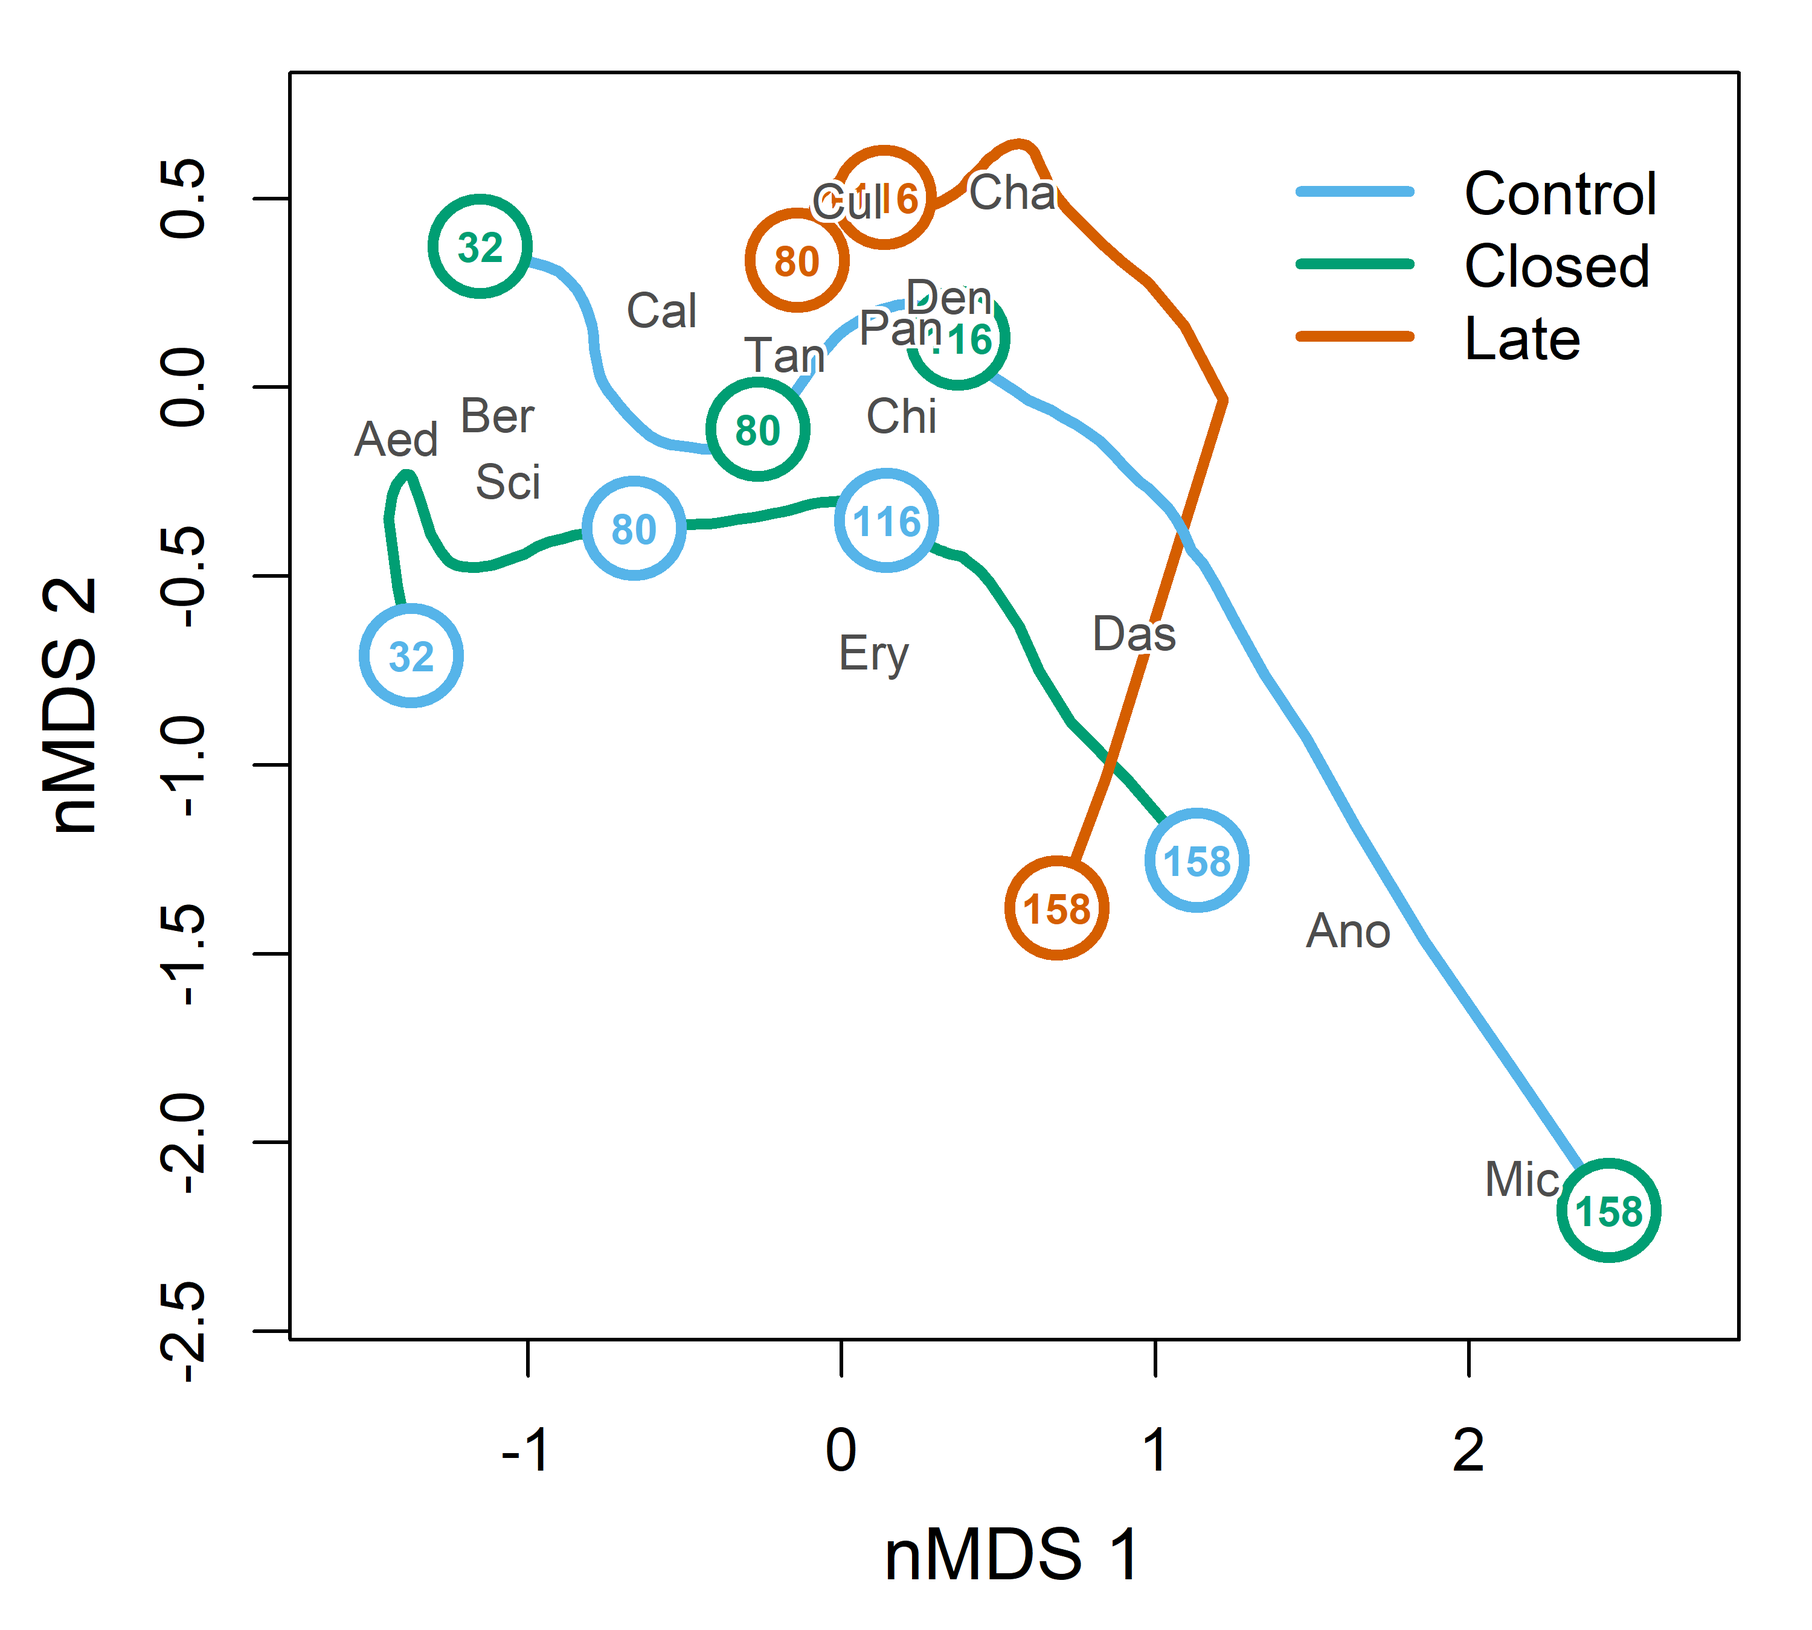
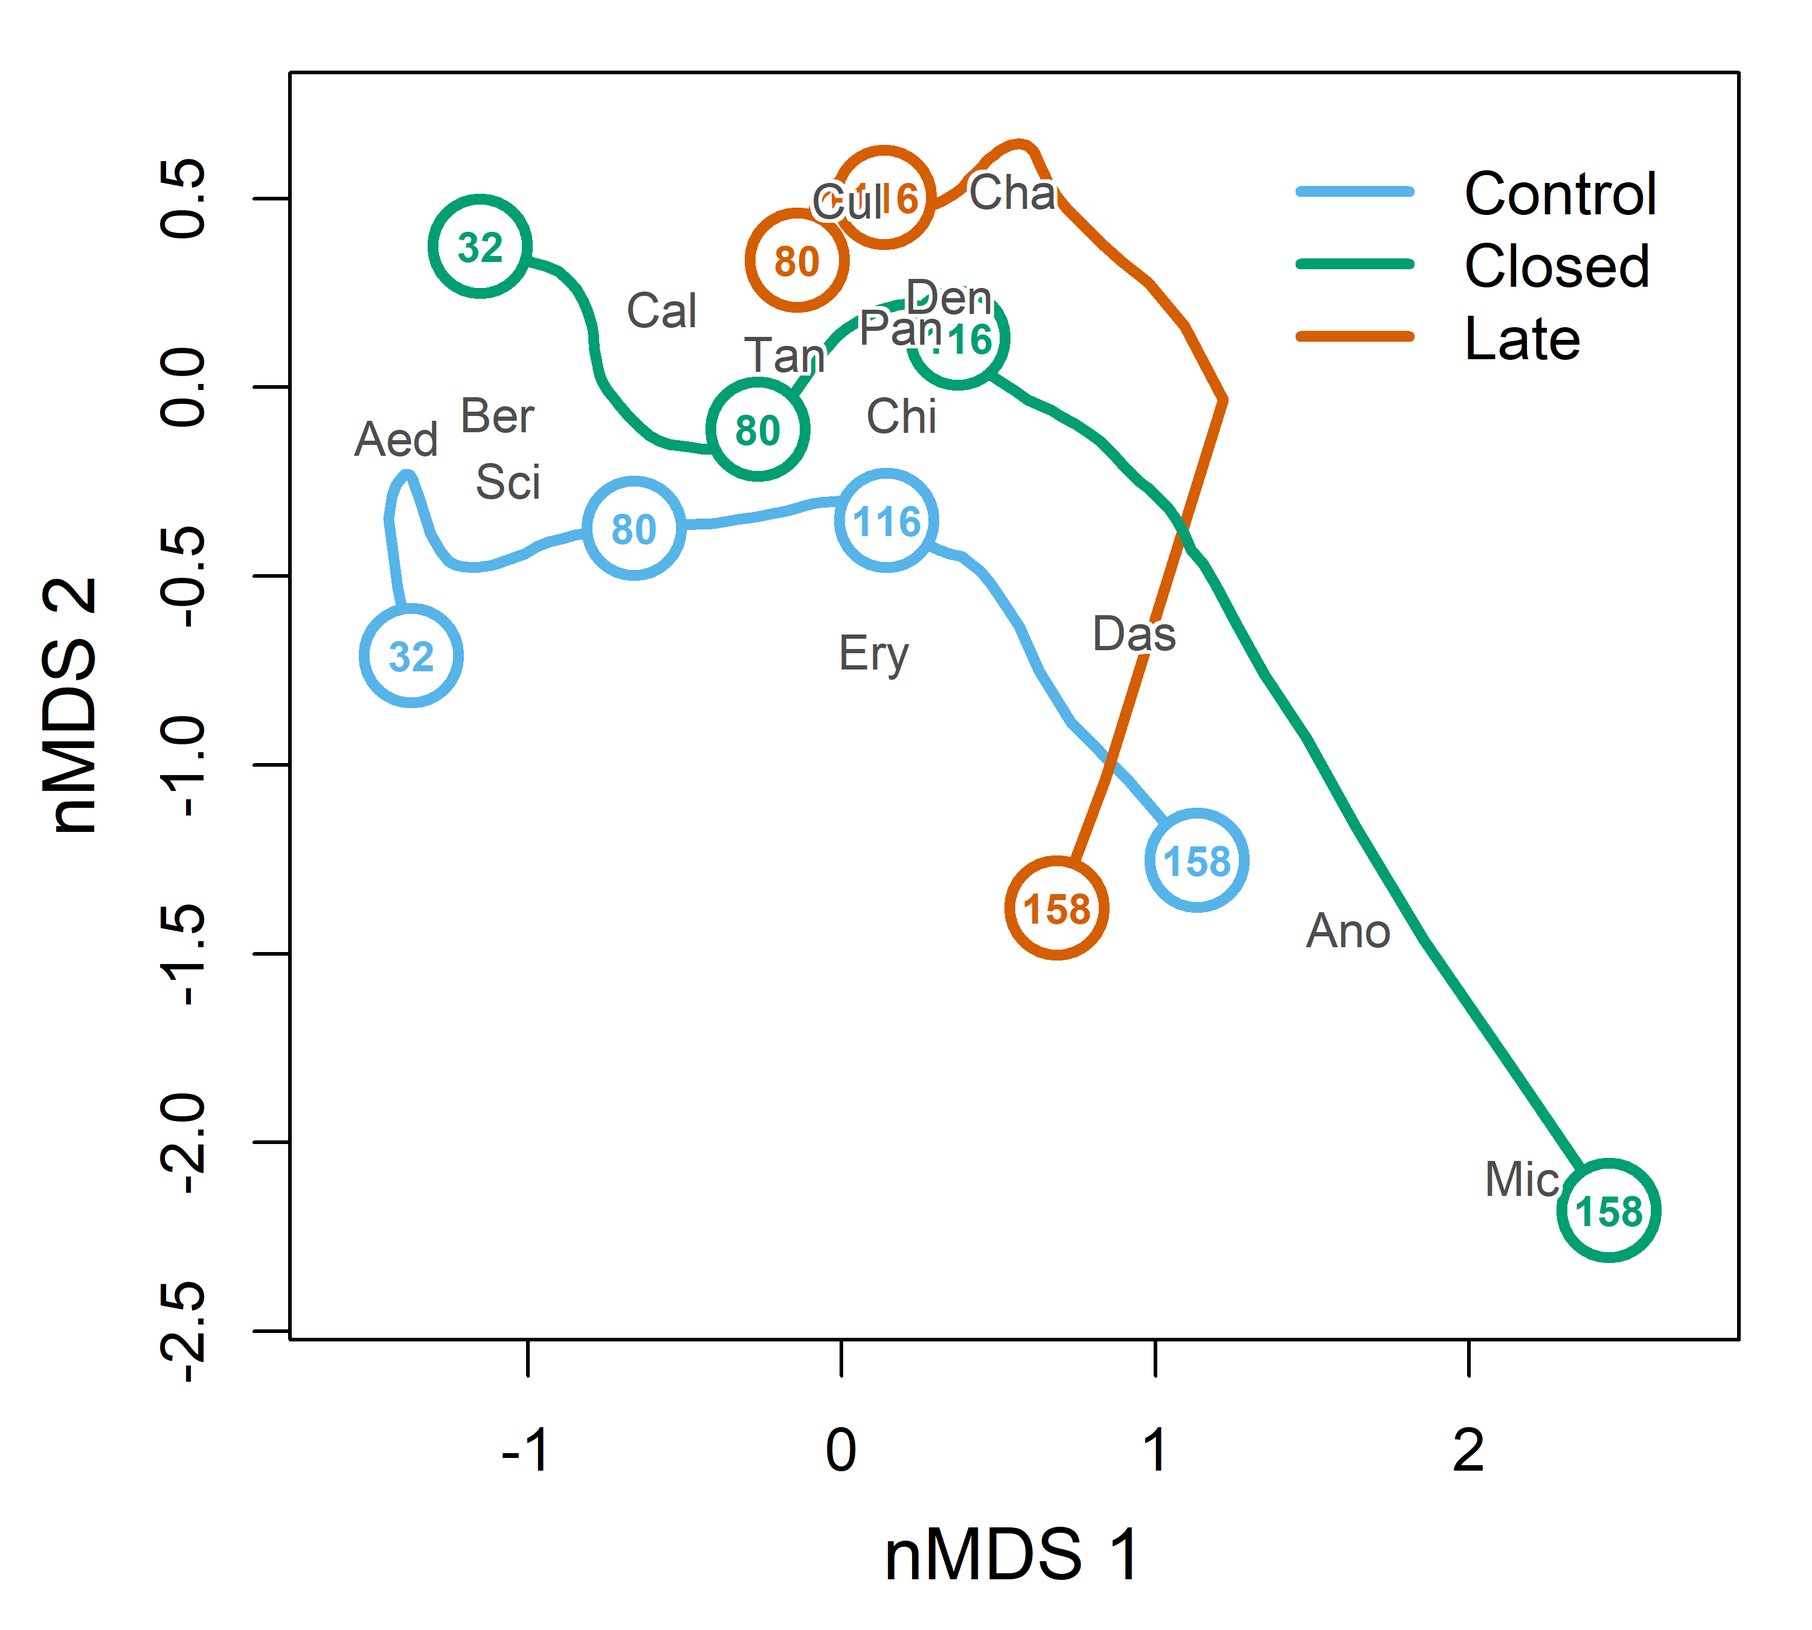
Updating figures of late treatment analysis

diff --git a/Markdowns/late_treatment.md b/Markdowns/late_treatment.md
@@ -98,16 +98,16 @@ anova_late_quadratic_test <- anova(mod_late_lin, mod_late_quad, bootID = permuta
     ## Using <int> bootID matrix from input. 
     ## Resampling begins for test 1.
     ##  Resampling run 0 finished. Time elapsed: 0.00 minutes...
-    ##  Resampling run 100 finished. Time elapsed: 0.03 minutes...
-    ##  Resampling run 200 finished. Time elapsed: 0.06 minutes...
-    ##  Resampling run 300 finished. Time elapsed: 0.09 minutes...
-    ##  Resampling run 400 finished. Time elapsed: 0.13 minutes...
-    ##  Resampling run 500 finished. Time elapsed: 0.17 minutes...
-    ##  Resampling run 600 finished. Time elapsed: 0.22 minutes...
-    ##  Resampling run 700 finished. Time elapsed: 0.26 minutes...
-    ##  Resampling run 800 finished. Time elapsed: 0.30 minutes...
-    ##  Resampling run 900 finished. Time elapsed: 0.34 minutes...
-    ## Time elapsed: 0 hr 0 min 22 sec
+    ##  Resampling run 100 finished. Time elapsed: 0.02 minutes...
+    ##  Resampling run 200 finished. Time elapsed: 0.04 minutes...
+    ##  Resampling run 300 finished. Time elapsed: 0.07 minutes...
+    ##  Resampling run 400 finished. Time elapsed: 0.09 minutes...
+    ##  Resampling run 500 finished. Time elapsed: 0.11 minutes...
+    ##  Resampling run 600 finished. Time elapsed: 0.13 minutes...
+    ##  Resampling run 700 finished. Time elapsed: 0.15 minutes...
+    ##  Resampling run 800 finished. Time elapsed: 0.17 minutes...
+    ##  Resampling run 900 finished. Time elapsed: 0.20 minutes...
+    ## Time elapsed: 0 hr 0 min 12 sec
 
 ``` r
 anova_late_quadratic_test
@@ -141,16 +141,16 @@ anova_late_block_test <- anova(mod_late_no_block, mod_late_block, bootID = permu
     ## Using <int> bootID matrix from input. 
     ## Resampling begins for test 1.
     ##  Resampling run 0 finished. Time elapsed: 0.00 minutes...
-    ##  Resampling run 100 finished. Time elapsed: 0.03 minutes...
-    ##  Resampling run 200 finished. Time elapsed: 0.07 minutes...
-    ##  Resampling run 300 finished. Time elapsed: 0.10 minutes...
-    ##  Resampling run 400 finished. Time elapsed: 0.13 minutes...
-    ##  Resampling run 500 finished. Time elapsed: 0.16 minutes...
-    ##  Resampling run 600 finished. Time elapsed: 0.19 minutes...
-    ##  Resampling run 700 finished. Time elapsed: 0.22 minutes...
-    ##  Resampling run 800 finished. Time elapsed: 0.26 minutes...
-    ##  Resampling run 900 finished. Time elapsed: 0.29 minutes...
-    ## Time elapsed: 0 hr 0 min 19 sec
+    ##  Resampling run 100 finished. Time elapsed: 0.02 minutes...
+    ##  Resampling run 200 finished. Time elapsed: 0.03 minutes...
+    ##  Resampling run 300 finished. Time elapsed: 0.05 minutes...
+    ##  Resampling run 400 finished. Time elapsed: 0.07 minutes...
+    ##  Resampling run 500 finished. Time elapsed: 0.08 minutes...
+    ##  Resampling run 600 finished. Time elapsed: 0.10 minutes...
+    ##  Resampling run 700 finished. Time elapsed: 0.12 minutes...
+    ##  Resampling run 800 finished. Time elapsed: 0.13 minutes...
+    ##  Resampling run 900 finished. Time elapsed: 0.15 minutes...
+    ## Time elapsed: 0 hr 0 min 10 sec
 
 ``` r
 anova_late_block_test
@@ -189,27 +189,27 @@ anova_late_treatments_test <- anova(mod_late_no_treatment, mod_late_treatment, m
     ## Using <int> bootID matrix from input. 
     ## Resampling begins for test 1.
     ##  Resampling run 0 finished. Time elapsed: 0.00 minutes...
-    ##  Resampling run 100 finished. Time elapsed: 0.04 minutes...
-    ##  Resampling run 200 finished. Time elapsed: 0.09 minutes...
-    ##  Resampling run 300 finished. Time elapsed: 0.14 minutes...
-    ##  Resampling run 400 finished. Time elapsed: 0.18 minutes...
-    ##  Resampling run 500 finished. Time elapsed: 0.22 minutes...
-    ##  Resampling run 600 finished. Time elapsed: 0.27 minutes...
-    ##  Resampling run 700 finished. Time elapsed: 0.31 minutes...
-    ##  Resampling run 800 finished. Time elapsed: 0.36 minutes...
-    ##  Resampling run 900 finished. Time elapsed: 0.40 minutes...
+    ##  Resampling run 100 finished. Time elapsed: 0.02 minutes...
+    ##  Resampling run 200 finished. Time elapsed: 0.05 minutes...
+    ##  Resampling run 300 finished. Time elapsed: 0.07 minutes...
+    ##  Resampling run 400 finished. Time elapsed: 0.09 minutes...
+    ##  Resampling run 500 finished. Time elapsed: 0.12 minutes...
+    ##  Resampling run 600 finished. Time elapsed: 0.14 minutes...
+    ##  Resampling run 700 finished. Time elapsed: 0.16 minutes...
+    ##  Resampling run 800 finished. Time elapsed: 0.19 minutes...
+    ##  Resampling run 900 finished. Time elapsed: 0.21 minutes...
     ## Resampling begins for test 2.
     ##  Resampling run 0 finished. Time elapsed: 0.00 minutes...
-    ##  Resampling run 100 finished. Time elapsed: 0.05 minutes...
-    ##  Resampling run 200 finished. Time elapsed: 0.10 minutes...
-    ##  Resampling run 300 finished. Time elapsed: 0.16 minutes...
-    ##  Resampling run 400 finished. Time elapsed: 0.21 minutes...
-    ##  Resampling run 500 finished. Time elapsed: 0.26 minutes...
-    ##  Resampling run 600 finished. Time elapsed: 0.31 minutes...
-    ##  Resampling run 700 finished. Time elapsed: 0.36 minutes...
-    ##  Resampling run 800 finished. Time elapsed: 0.41 minutes...
-    ##  Resampling run 900 finished. Time elapsed: 0.46 minutes...
-    ## Time elapsed: 0 hr 0 min 57 sec
+    ##  Resampling run 100 finished. Time elapsed: 0.03 minutes...
+    ##  Resampling run 200 finished. Time elapsed: 0.05 minutes...
+    ##  Resampling run 300 finished. Time elapsed: 0.08 minutes...
+    ##  Resampling run 400 finished. Time elapsed: 0.11 minutes...
+    ##  Resampling run 500 finished. Time elapsed: 0.13 minutes...
+    ##  Resampling run 600 finished. Time elapsed: 0.16 minutes...
+    ##  Resampling run 700 finished. Time elapsed: 0.19 minutes...
+    ##  Resampling run 800 finished. Time elapsed: 0.21 minutes...
+    ##  Resampling run 900 finished. Time elapsed: 0.24 minutes...
+    ## Time elapsed: 0 hr 0 min 30 sec
 
 ``` r
 anova_late_treatments_test
@@ -257,27 +257,27 @@ anova_treatments_test_late_control <- anova(mod_no_treatment_late_control, mod_t
     ## Using <int> bootID matrix from input. 
     ## Resampling begins for test 1.
     ##  Resampling run 0 finished. Time elapsed: 0.00 minutes...
-    ##  Resampling run 100 finished. Time elapsed: 0.03 minutes...
-    ##  Resampling run 200 finished. Time elapsed: 0.06 minutes...
-    ##  Resampling run 300 finished. Time elapsed: 0.09 minutes...
-    ##  Resampling run 400 finished. Time elapsed: 0.12 minutes...
-    ##  Resampling run 500 finished. Time elapsed: 0.14 minutes...
-    ##  Resampling run 600 finished. Time elapsed: 0.17 minutes...
-    ##  Resampling run 700 finished. Time elapsed: 0.20 minutes...
-    ##  Resampling run 800 finished. Time elapsed: 0.23 minutes...
-    ##  Resampling run 900 finished. Time elapsed: 0.26 minutes...
+    ##  Resampling run 100 finished. Time elapsed: 0.02 minutes...
+    ##  Resampling run 200 finished. Time elapsed: 0.03 minutes...
+    ##  Resampling run 300 finished. Time elapsed: 0.05 minutes...
+    ##  Resampling run 400 finished. Time elapsed: 0.06 minutes...
+    ##  Resampling run 500 finished. Time elapsed: 0.08 minutes...
+    ##  Resampling run 600 finished. Time elapsed: 0.09 minutes...
+    ##  Resampling run 700 finished. Time elapsed: 0.11 minutes...
+    ##  Resampling run 800 finished. Time elapsed: 0.12 minutes...
+    ##  Resampling run 900 finished. Time elapsed: 0.14 minutes...
     ## Resampling begins for test 2.
     ##  Resampling run 0 finished. Time elapsed: 0.00 minutes...
-    ##  Resampling run 100 finished. Time elapsed: 0.04 minutes...
-    ##  Resampling run 200 finished. Time elapsed: 0.07 minutes...
-    ##  Resampling run 300 finished. Time elapsed: 0.11 minutes...
-    ##  Resampling run 400 finished. Time elapsed: 0.14 minutes...
-    ##  Resampling run 500 finished. Time elapsed: 0.18 minutes...
-    ##  Resampling run 600 finished. Time elapsed: 0.22 minutes...
-    ##  Resampling run 700 finished. Time elapsed: 0.25 minutes...
-    ##  Resampling run 800 finished. Time elapsed: 0.29 minutes...
-    ##  Resampling run 900 finished. Time elapsed: 0.33 minutes...
-    ## Time elapsed: 0 hr 0 min 39 sec
+    ##  Resampling run 100 finished. Time elapsed: 0.02 minutes...
+    ##  Resampling run 200 finished. Time elapsed: 0.04 minutes...
+    ##  Resampling run 300 finished. Time elapsed: 0.06 minutes...
+    ##  Resampling run 400 finished. Time elapsed: 0.09 minutes...
+    ##  Resampling run 500 finished. Time elapsed: 0.12 minutes...
+    ##  Resampling run 600 finished. Time elapsed: 0.14 minutes...
+    ##  Resampling run 700 finished. Time elapsed: 0.17 minutes...
+    ##  Resampling run 800 finished. Time elapsed: 0.20 minutes...
+    ##  Resampling run 900 finished. Time elapsed: 0.22 minutes...
+    ## Time elapsed: 0 hr 0 min 23 sec
 
 ``` r
 anova_treatments_test_late_control
@@ -323,27 +323,27 @@ anova_treatments_test_late_fechado <- anova(mod_no_treatment_late_fechado, mod_t
     ## Using <int> bootID matrix from input. 
     ## Resampling begins for test 1.
     ##  Resampling run 0 finished. Time elapsed: 0.00 minutes...
-    ##  Resampling run 100 finished. Time elapsed: 0.03 minutes...
-    ##  Resampling run 200 finished. Time elapsed: 0.06 minutes...
-    ##  Resampling run 300 finished. Time elapsed: 0.09 minutes...
-    ##  Resampling run 400 finished. Time elapsed: 0.12 minutes...
-    ##  Resampling run 500 finished. Time elapsed: 0.15 minutes...
-    ##  Resampling run 600 finished. Time elapsed: 0.18 minutes...
-    ##  Resampling run 700 finished. Time elapsed: 0.21 minutes...
-    ##  Resampling run 800 finished. Time elapsed: 0.24 minutes...
-    ##  Resampling run 900 finished. Time elapsed: 0.27 minutes...
+    ##  Resampling run 100 finished. Time elapsed: 0.02 minutes...
+    ##  Resampling run 200 finished. Time elapsed: 0.04 minutes...
+    ##  Resampling run 300 finished. Time elapsed: 0.06 minutes...
+    ##  Resampling run 400 finished. Time elapsed: 0.07 minutes...
+    ##  Resampling run 500 finished. Time elapsed: 0.09 minutes...
+    ##  Resampling run 600 finished. Time elapsed: 0.11 minutes...
+    ##  Resampling run 700 finished. Time elapsed: 0.13 minutes...
+    ##  Resampling run 800 finished. Time elapsed: 0.14 minutes...
+    ##  Resampling run 900 finished. Time elapsed: 0.16 minutes...
     ## Resampling begins for test 2.
     ##  Resampling run 0 finished. Time elapsed: 0.00 minutes...
-    ##  Resampling run 100 finished. Time elapsed: 0.03 minutes...
-    ##  Resampling run 200 finished. Time elapsed: 0.06 minutes...
-    ##  Resampling run 300 finished. Time elapsed: 0.10 minutes...
-    ##  Resampling run 400 finished. Time elapsed: 0.13 minutes...
-    ##  Resampling run 500 finished. Time elapsed: 0.16 minutes...
-    ##  Resampling run 600 finished. Time elapsed: 0.20 minutes...
-    ##  Resampling run 700 finished. Time elapsed: 0.23 minutes...
-    ##  Resampling run 800 finished. Time elapsed: 0.26 minutes...
-    ##  Resampling run 900 finished. Time elapsed: 0.30 minutes...
-    ## Time elapsed: 0 hr 0 min 37 sec
+    ##  Resampling run 100 finished. Time elapsed: 0.02 minutes...
+    ##  Resampling run 200 finished. Time elapsed: 0.03 minutes...
+    ##  Resampling run 300 finished. Time elapsed: 0.05 minutes...
+    ##  Resampling run 400 finished. Time elapsed: 0.07 minutes...
+    ##  Resampling run 500 finished. Time elapsed: 0.09 minutes...
+    ##  Resampling run 600 finished. Time elapsed: 0.11 minutes...
+    ##  Resampling run 700 finished. Time elapsed: 0.12 minutes...
+    ##  Resampling run 800 finished. Time elapsed: 0.14 minutes...
+    ##  Resampling run 900 finished. Time elapsed: 0.16 minutes...
+    ## Time elapsed: 0 hr 0 min 21 sec
 
 ``` r
 anova_treatments_test_late_fechado
@@ -433,16 +433,16 @@ anova_late_exp_quadratic_test <- anova(mod_late_lin, mod_late_quad, bootID = per
     ## Using <int> bootID matrix from input. 
     ## Resampling begins for test 1.
     ##  Resampling run 0 finished. Time elapsed: 0.00 minutes...
-    ##  Resampling run 100 finished. Time elapsed: 0.04 minutes...
-    ##  Resampling run 200 finished. Time elapsed: 0.08 minutes...
-    ##  Resampling run 300 finished. Time elapsed: 0.12 minutes...
-    ##  Resampling run 400 finished. Time elapsed: 0.16 minutes...
-    ##  Resampling run 500 finished. Time elapsed: 0.20 minutes...
-    ##  Resampling run 600 finished. Time elapsed: 0.24 minutes...
-    ##  Resampling run 700 finished. Time elapsed: 0.29 minutes...
-    ##  Resampling run 800 finished. Time elapsed: 0.33 minutes...
-    ##  Resampling run 900 finished. Time elapsed: 0.37 minutes...
-    ## Time elapsed: 0 hr 0 min 24 sec
+    ##  Resampling run 100 finished. Time elapsed: 0.02 minutes...
+    ##  Resampling run 200 finished. Time elapsed: 0.04 minutes...
+    ##  Resampling run 300 finished. Time elapsed: 0.07 minutes...
+    ##  Resampling run 400 finished. Time elapsed: 0.09 minutes...
+    ##  Resampling run 500 finished. Time elapsed: 0.11 minutes...
+    ##  Resampling run 600 finished. Time elapsed: 0.13 minutes...
+    ##  Resampling run 700 finished. Time elapsed: 0.15 minutes...
+    ##  Resampling run 800 finished. Time elapsed: 0.17 minutes...
+    ##  Resampling run 900 finished. Time elapsed: 0.20 minutes...
+    ## Time elapsed: 0 hr 0 min 13 sec
 
 ``` r
 anova_late_exp_quadratic_test
@@ -476,16 +476,16 @@ anova_late_exp_test <- anova(mod_late_exp_block, mod_late_exp_no_block, bootID =
     ## Using <int> bootID matrix from input. 
     ## Resampling begins for test 1.
     ##  Resampling run 0 finished. Time elapsed: 0.00 minutes...
-    ##  Resampling run 100 finished. Time elapsed: 0.03 minutes...
-    ##  Resampling run 200 finished. Time elapsed: 0.07 minutes...
-    ##  Resampling run 300 finished. Time elapsed: 0.10 minutes...
-    ##  Resampling run 400 finished. Time elapsed: 0.14 minutes...
-    ##  Resampling run 500 finished. Time elapsed: 0.17 minutes...
-    ##  Resampling run 600 finished. Time elapsed: 0.20 minutes...
-    ##  Resampling run 700 finished. Time elapsed: 0.24 minutes...
-    ##  Resampling run 800 finished. Time elapsed: 0.27 minutes...
-    ##  Resampling run 900 finished. Time elapsed: 0.30 minutes...
-    ## Time elapsed: 0 hr 0 min 20 sec
+    ##  Resampling run 100 finished. Time elapsed: 0.02 minutes...
+    ##  Resampling run 200 finished. Time elapsed: 0.04 minutes...
+    ##  Resampling run 300 finished. Time elapsed: 0.05 minutes...
+    ##  Resampling run 400 finished. Time elapsed: 0.07 minutes...
+    ##  Resampling run 500 finished. Time elapsed: 0.09 minutes...
+    ##  Resampling run 600 finished. Time elapsed: 0.11 minutes...
+    ##  Resampling run 700 finished. Time elapsed: 0.13 minutes...
+    ##  Resampling run 800 finished. Time elapsed: 0.17 minutes...
+    ##  Resampling run 900 finished. Time elapsed: 0.20 minutes...
+    ## Time elapsed: 0 hr 0 min 14 sec
 
 ``` r
 anova_late_exp_test
@@ -612,7 +612,7 @@ anova_treatments_test_late_exp_control <- anova(mod_no_treatment_late_exp_contro
     ##  Resampling run 700 finished. Time elapsed: 0.17 minutes...
     ##  Resampling run 800 finished. Time elapsed: 0.20 minutes...
     ##  Resampling run 900 finished. Time elapsed: 0.22 minutes...
-    ## Time elapsed: 0 hr 0 min 30 sec
+    ## Time elapsed: 0 hr 0 min 31 sec
 
 ``` r
 anova_treatments_test_late_exp_control
@@ -677,7 +677,7 @@ anova_treatments_test_late_exp_fechado <- anova(mod_no_treatment_late_exp_fechad
     ##  Resampling run 600 finished. Time elapsed: 0.14 minutes...
     ##  Resampling run 700 finished. Time elapsed: 0.17 minutes...
     ##  Resampling run 800 finished. Time elapsed: 0.19 minutes...
-    ##  Resampling run 900 finished. Time elapsed: 0.22 minutes...
+    ##  Resampling run 900 finished. Time elapsed: 0.21 minutes...
     ## Time elapsed: 0 hr 0 min 30 sec
 
 ``` r
@@ -921,11 +921,11 @@ par(mar = c(4, 4, 1, 1))
   
 plot(NA, xlim = c(xmin, xmax), ylim = c(ymin, ymax), xlab = "", ylab = "", xaxt = "n", yaxt = "n")
 
-lines(x = points_late_controle[,1], y = points_late_controle[,2], lwd = 3, lty = 1, col = "#009E73") #controle
+lines(x = points_late_controle[,1], y = points_late_controle[,2], lwd = 3, lty = 1, col = "#56B4E9") #controle
 
 lines(x = points_late_atrasado[,1], y = points_late_atrasado[,2], lwd = 3, lty = 1, col = "#D55E00") #atrasado
 
-lines(x = points_late_fechado[,1], y = points_late_fechado[,2], lwd = 3, lty = 1, col = "#56B4E9") #fechado
+lines(x = points_late_fechado[,1], y = points_late_fechado[,2], lwd = 3, lty = 1, col = "#009E73") #fechado
 
 
 
